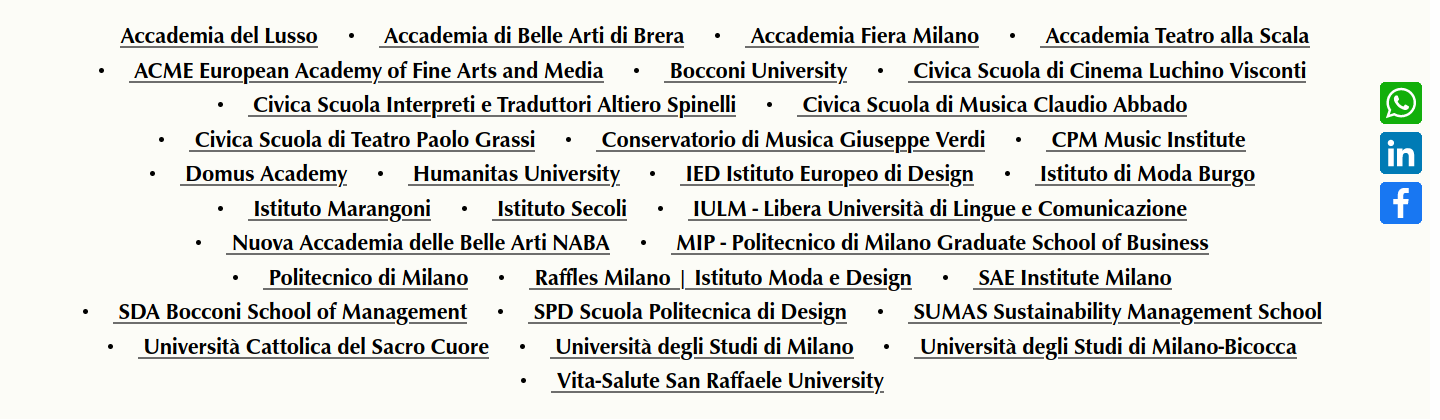
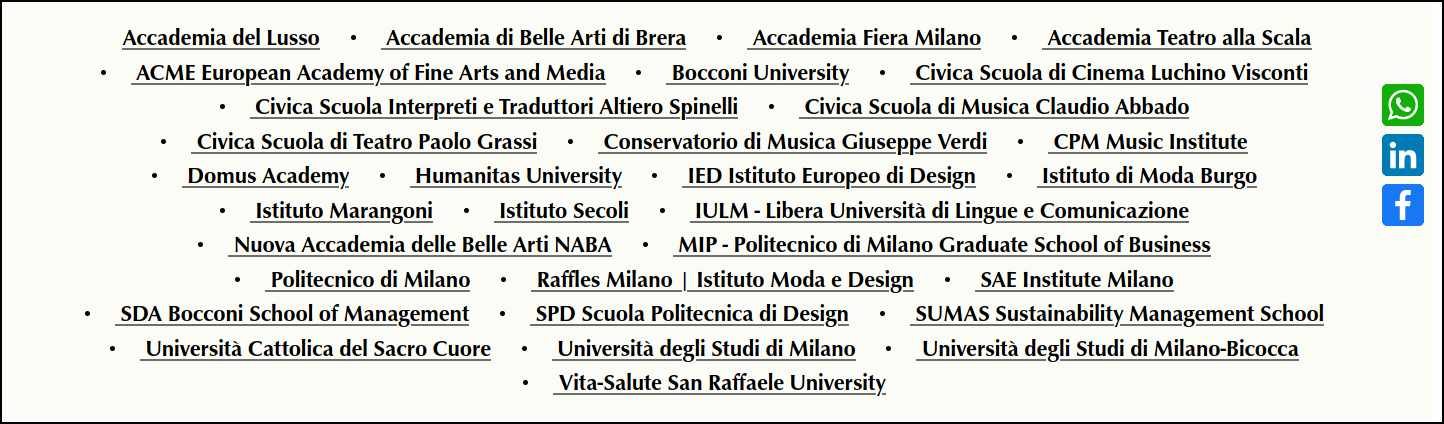
Add ut results and conclusions draft; Add black borders to images

diff --git a/sections/user_testing.tex b/sections/user_testing.tex
@@ -5,7 +5,7 @@
 %General method (what is UT)
 %Copy and past of definition
 
-User Testing is a methodology aimed at evaluating the usability of an application, where by “usability” we mean “the effectiveness, efficiency and satisfaction with which specified users can achieve specified goals in particular environments” (ISO 9241-11). Therefore, User Testing is a task-oriented empirical research which involves end users that are observed by researchers while the former are using the application.
+User Testing is a methodology aimed at evaluating the usability of an application, where by "usability" we mean "the effectiveness, efficiency and satisfaction with which specified users can achieve specified goals in particular environments" (ISO 9241-11). Therefore, User Testing is a task-oriented empirical research which involves end users that are observed by researchers while the former are using the application.
 
 \subsection{Design of the study}
     The user testing was performed both remotely and in-presence, with the use of two personal computers, one for the end user and one for the evaluator. 
@@ -47,10 +47,8 @@ User Testing is a methodology aimed at evaluating the usability of an applicatio
         \item 0 points if the user has given up, or has thought he has finished when he has not.
     \end{itemize}
 
-    The efficiency was measured by the time (in minutes and seconds) taken by the user to complete the task.
-
-    The number of errors is the number of wrong paths or actions taken by the user while completing the task.
-
+    The efficiency was measured by the time (in minutes and seconds) taken by the user to complete the task.\\
+    The number of errors is the number of wrong paths or actions taken by the user while completing the task.\\
     The perceived tasks difficulty was measured by asking the user to assign a score from 1 (very easy)  to 5 (impossible).
 
     \subsubsection{Tasks}
@@ -73,7 +71,7 @@ User Testing is a methodology aimed at evaluating the usability of an applicatio
         \item You are interested in visiting Milano, but you are unsure of the covid situation of the city and its policies (e.g. regarding green pass). Find more about it and where to get tested.
         \item You want to find the list of museums in Milano whose entrance is free. Select the first and look for its opening times, how to reach it and if there are any parking spots. 
     \end{enumerate}
-        For the user profile “tourists that wants to visit the city” we defined the following tasks:
+        For the user profile "tourists that wants to visit the city" we defined the following tasks:
     \begin{enumerate}
         \item For this saturday, you've planned to shop at Porta Venezia till lunch time. Find and book the nearest restaurant in the area for that saturday, in particular you are a vegan.
         \item You are planning to book an hotel near the city center (Duomo) for the weekend for two adults, a child and your lovely dog.
@@ -89,7 +87,8 @@ User Testing is a methodology aimed at evaluating the usability of an applicatio
     % Google form, can include some screenshots
     (unire tale parte con "Design of the study"???)\\
     As stated above, each inspector has recruited 5 users. In particular, two of us have recruited 3 students and 2 tourists and the other two have recruited 2 students and 3 tourists. So we have a total of 20 users, including 10 students and 10 tourists.\\
-    To easily collect the data we used a Google Form, the results of which were automatically uploaded to an Excel file. This greatly simplified the process of analysing the results.
+    To easily collect the data we used a Google Form, the results of which were automatically uploaded to an Excel file. This greatly simplified the process of analysing the results.\\
+    To avoid similar results for each tasks and a learning curve, we randomized the order of execution of the tasks.
 
 \subsection{Results}
     % Final scores (with comments);
@@ -200,3 +199,31 @@ User Testing is a methodology aimed at evaluating the usability of an applicatio
 \subsection{Discussion of results}
     % Your observations on results
     % Summary of comments from user testing
+    - Analyzing the graphs, as expected the users performed poorly on the task S6-T6. The task should not be very difficult, but due to the footer link "all the venues" missing in the main menu it underperformed.\\
+    - Search bar not very useful, very slow, but many users used it as first option or backup option, we did not expect that the search bar would be so much used\\
+        -- User frustrated due to slowness\\
+        -- Quite satisfied as results quite correct\\
+        -- Long waiting periods\\
+    - Main menu hard to see at first glance and we expected it to be used more often\\
+        -- Not noticing the main menu means user very disorientated\\
+    % Alessio fino a qua
+    % Fabio vvvvv
+    - Missing searching filters in many pages (e.g. hotel page, attractions page), we did not expect that the menu would be underutilized\\
+        -- Long wandering periods, user does not find what he's looking for\\
+    - Some important links in the footer never used\\
+        -- Disorientation, wondering periods\\
+    - Restaurant searching form has some bugs\\
+        -- Unexpected behaviors\\
+        -- Frustration\\
+    - Some labels confusing: "guide to the city"\\
+        -- Disorientation\\
+
+
+
+    - Disorientation\\
+    - Frustrations\\
+    - Waiting periods\\
+    - Wandering periods\\
+    - Unexpected behaviors\\
+    - Satisfaction\\
+    - Engagement\\

diff --git a/sections/inspection.tex b/sections/inspection.tex
@@ -18,6 +18,12 @@
 
 \section{Inspection}
 
+\subsection{Cose da rivedere}
+\begin{enumerate}
+    \item Spiegare la scelta delle URL, perch\`e abbiamo scelto certe URL e escluso altre
+    \item Aggiungere contorno nero alle immagini
+\end{enumerate}
+
 \subsection{Method}
 % what is inspection based usability evaluation
 % specific heuristics and metrics used
@@ -154,7 +160,7 @@ The final scores differ from the arithmetic mean of each evaluator's score: the 
     H4 & 2 & Some icons and buttons don't follow established conventions and there are cases in which they provide different functionalities across different pages, hence the lack of consistency.\\ \midrule
     H5 & 2 & Error prevention is not always implemented, i.e. in the newsletter subscription form and in the registration process suggestions are not always present.\\ \midrule
     H6 & 3 & No major problems detected in this heuristic.\\ \midrule
-    H7 & 1 & Detected issues mainly related to landmarks, see MN5.\\ \midrule
+    H7 & 1 & Accelerators are easily accessible.\\ \midrule
     H8 & 2 & Presence of an huge banner at the top of most pages is not a good design choice as it takes space from relevant information below it.\\ \midrule
     H9 & 2 & Helpful messages for error recognition are not always provided.\\ \midrule
     H10 & N/A & Heuristic not applicable to this website.
@@ -424,7 +430,6 @@ There is an overall consensus that the website presents major problems on the co
         While most of the website usually presents its contents in a relatively clean way with little bloat, certain pages present their content in a poorly formatted manner. 
         For example, the page that lists universities has a confusing list of links that point to parts of the page, and items like the one in Fig. \ref{fig:MC1-2}, when replicated many times make the page too long.
         While there are sections that present many information in well-organized manner (e.g.: the Coronavirus FAQ page) there are some that present their content with poorly formatted text (e.g.: the "Subway, Trams and Buses" page), as shown in Fig. \ref{fig:MC1-3}.
-
 
         \begin{figure}[!ht]
             \includegraphics[width=\linewidth]{images/MC1-1.png}

diff --git a/sections/conclusions.tex b/sections/conclusions.tex
@@ -1,7 +1,21 @@
 % !TeX root = ../report.tex
 
 \section{Conclusions}
+\subsection{Comparison of results}
+Both analyses showed that:\\
+- Problem in spatial allocation of important links such as "all the venues", as a matter of fact many users did not find the before mentioned link and failed or partially completed the task S6-T6\\
+- The search bar influences the visibility of system status, the page appears to be frozen and many users were frustrated and were waiting for a long time\\
 
+Differences:
+- Some users found a number of problems that the inspectors missed during the inspection, we did not expect the search bar so much utilized\\
+- Inspectors noticed immediately the main menu\\
+- Users ignored the anchor links in pages like "university page" and "renting page"
 % Comparison of the results achieved using the 2 methods
 % - Problems priority and Suggestions for redesign
 % - (Optional: Personal observations on the whole work performed: what did you learn?)
+\subsection{Suggestions for redesign}
+- Expand the headers of main menu, show the "hamburger menu" only when window is small
+- Include "all the venues" in the main menu
+- The search bar should be faster
+- The link anchors for example in "university page" and "renting" could be put in a side menu
+- Improve the filtering method in some pages, for example in "attractions" and in "itineraries" a way to filter according to topics (e.g. art, education...) would be preferable
